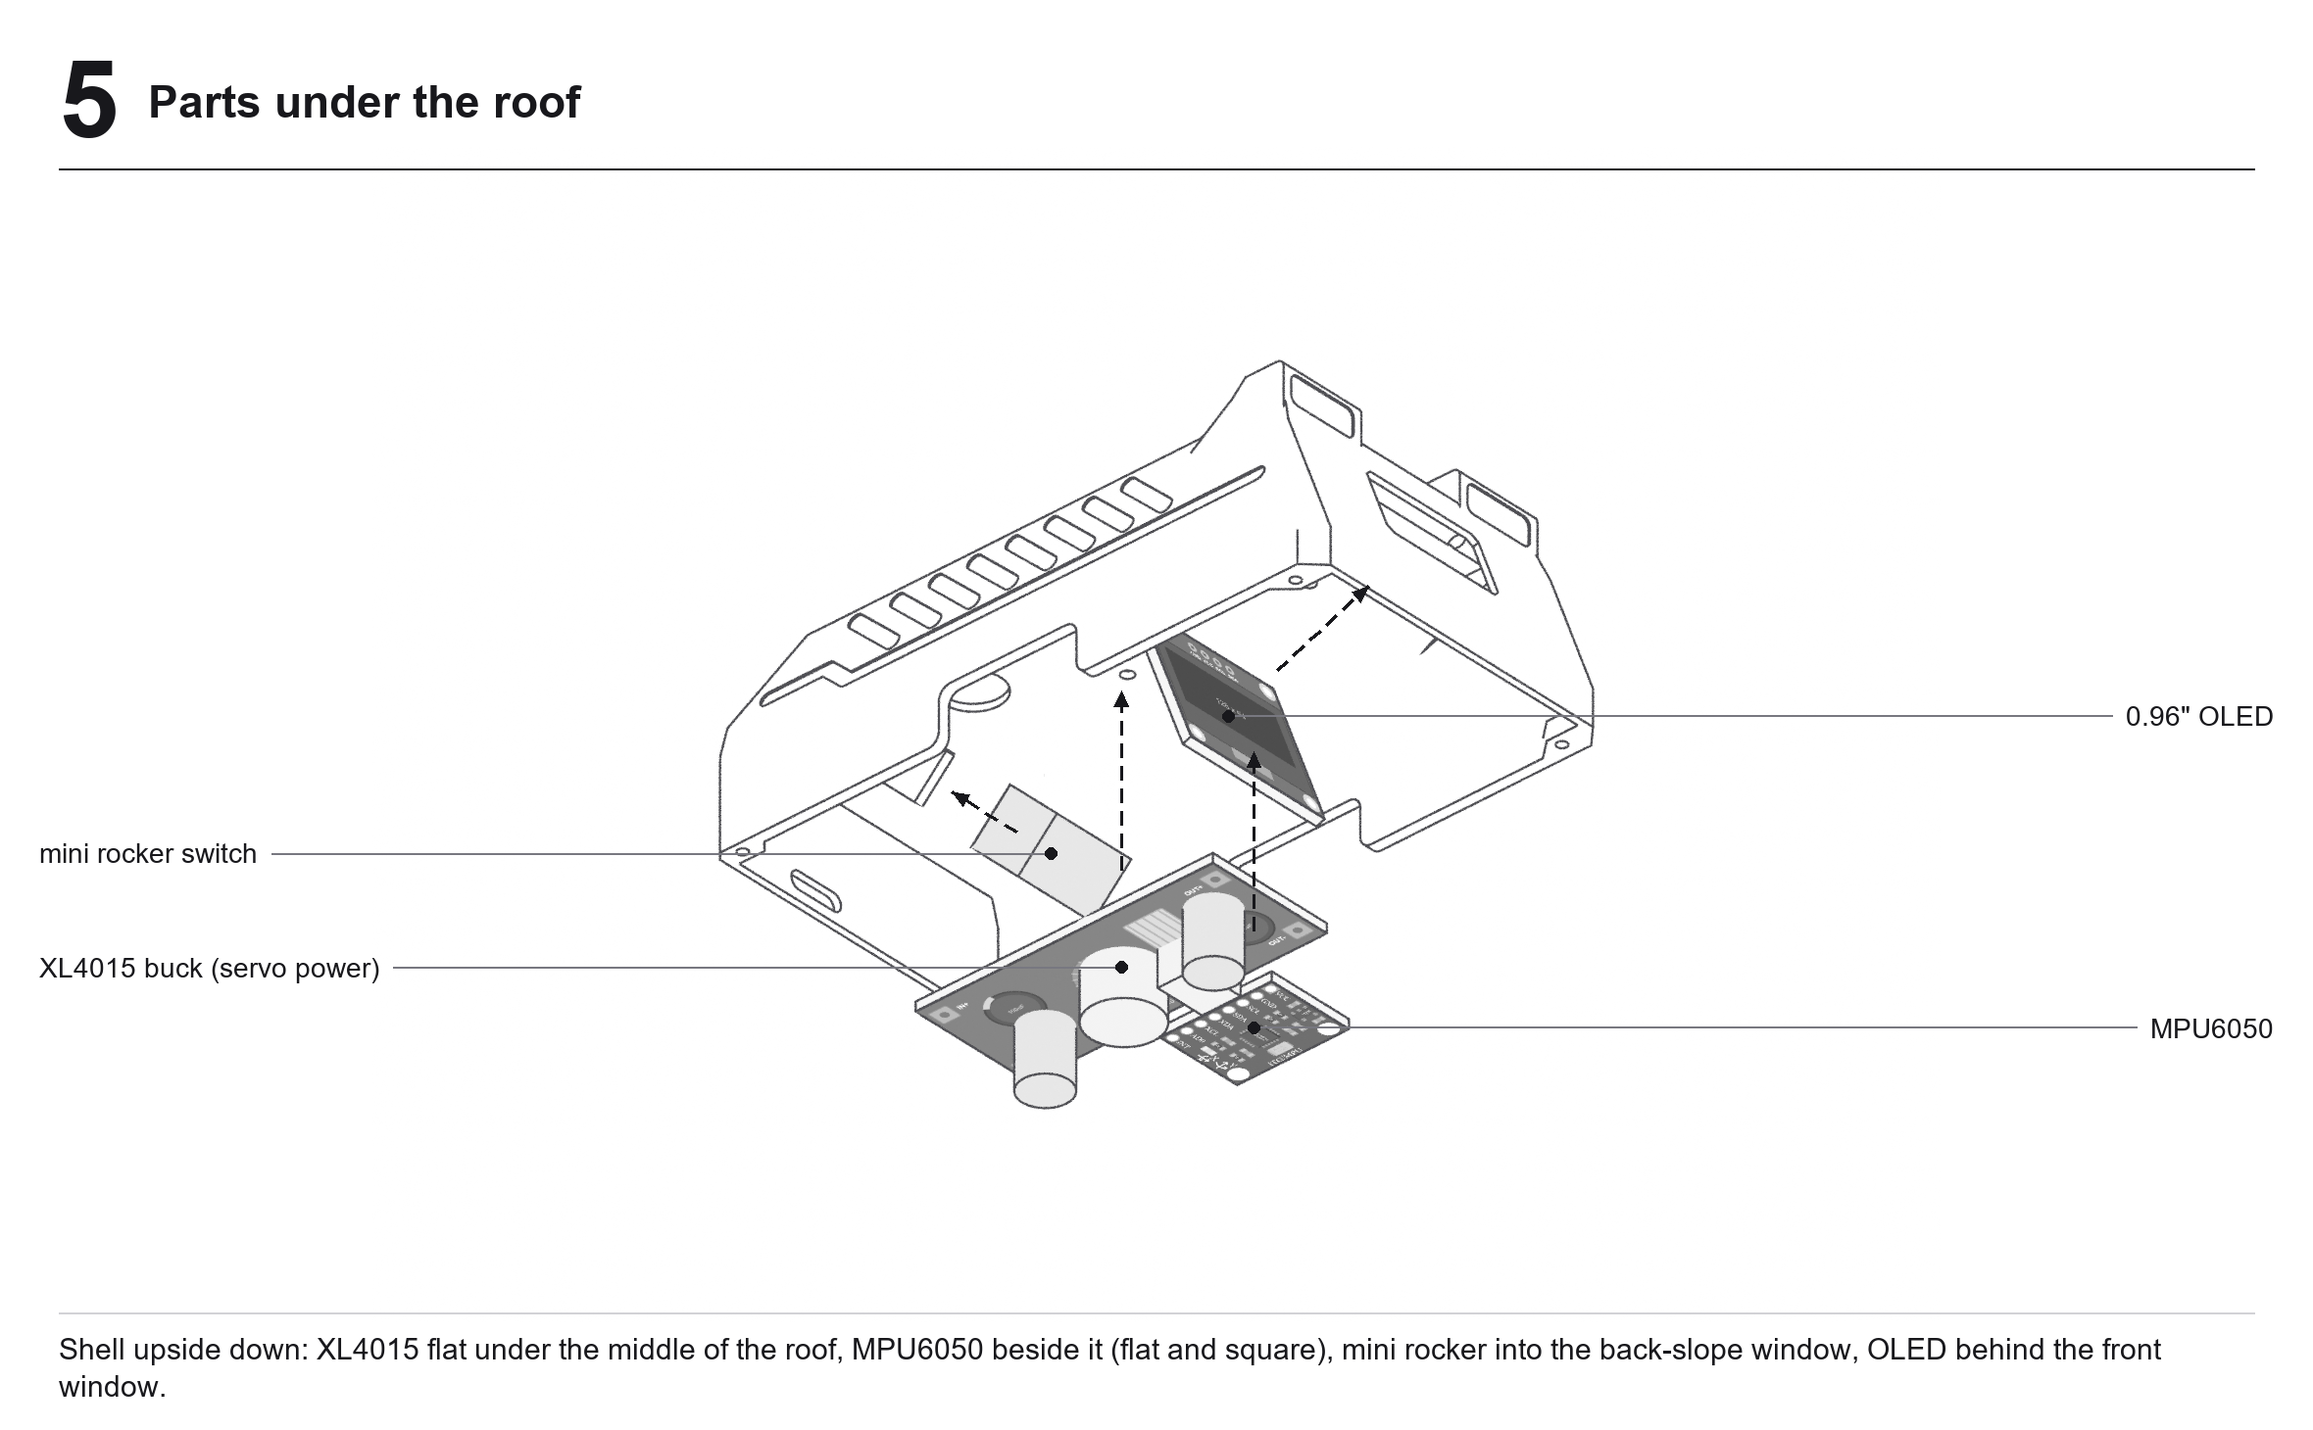
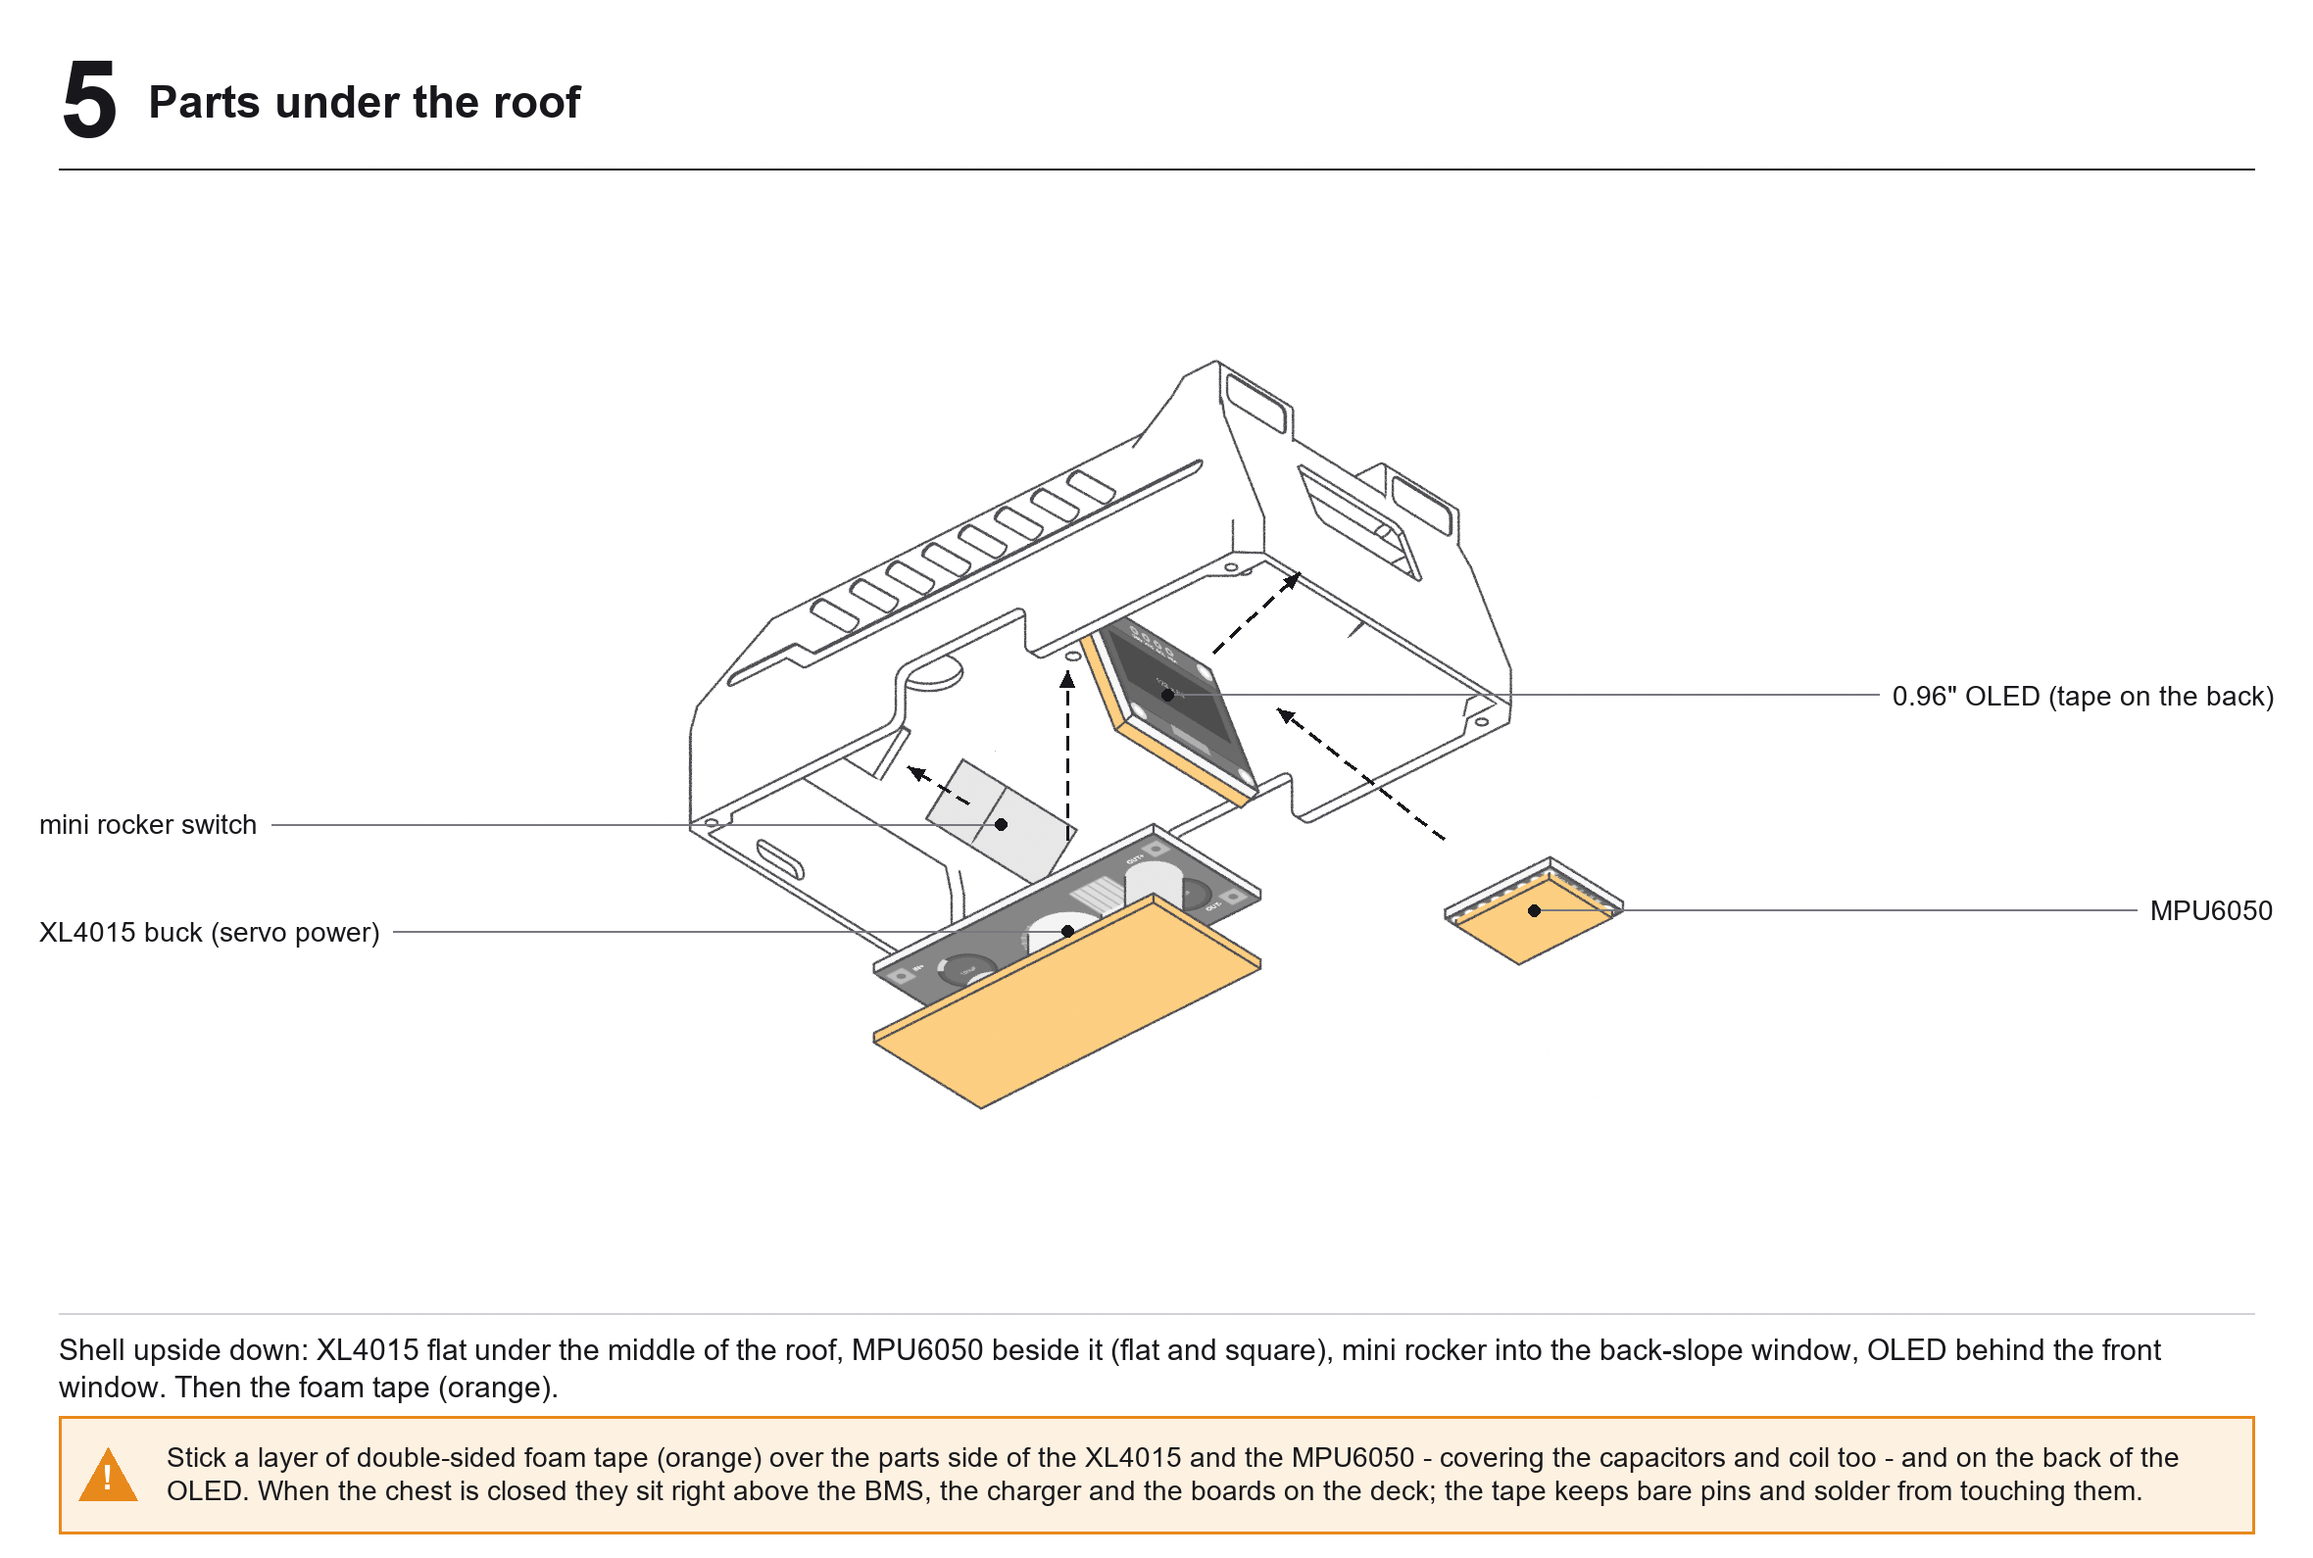
Handbook: foam tape over the XL4015, MPU6050 and OLED so nothing bare touches the deck boards (step 5 drawing + note)

diff --git a/HANDBOOK.html b/HANDBOOK.html
@@ -362,6 +362,11 @@ self-tapping screws: the thread is cut into plastic and strips if forced.</p>
 <li><strong>Chest, under the roof:</strong> the XL4015 flat in the middle, the MPU6050 beside it (mount it flat and square – it is
   the robot's sense of level), the mini rocker switch in the window of the back slope, the OLED behind the window of
   the front face. The round hole in the roof behind the neck is the cable way to the head.</li>
+<li><strong>Insulate the roof parts:</strong> put a layer of double-sided foam tape over the parts side of the XL4015 (over the
+  capacitors and the coil too, so nothing sticks out past it) and of the MPU6050, and on the back of the OLED – the
+  orange pads in step 5. When the chest is closed these sit right above the BMS, the charger and the boards on the
+  deck; the tape stops bare pins and solder joints from touching them and shorting. (It also holds the MPU6050 still,
+  which helps its readings.)</li>
 <li><strong>Head:</strong> the head is a front body (face, side walls, floor) closed by an L-shaped back cover (back + roof).
   The display sits landscape in the face; the camera looks out of the forehead hole with the ToF sensor on its
   left and the mic on its right. The ESP32-S3 board stands upright right behind the display, its two USB-C ports

diff --git a/docs/tools/manual_pages.py b/docs/tools/manual_pages.py
@@ -20,7 +20,7 @@ STEPS = {
     "2": ("Hip servos into the body", "Four MG90S servos drop into the corner pockets of the middle block, shafts up. Route the cables to the centre."),
     "3": ("Battery and bottom cover", "The 2S 1000 mAh LiPo goes into the bay under the deck, leads up through the deck. Clip the bottom cover over it."),
     "4": ("Power and servo boards on the deck", "Right side: the USB-C charger at the back (its port in the slot of the back wall), the HW-391 BMS in front of it. Left side: the PCA9685 at the back, the MP1584 5 V buck in front of it."),
-    "5": ("Parts under the roof", "Shell upside down: XL4015 flat under the middle of the roof, MPU6050 beside it (flat and square), mini rocker into the back-slope window, OLED behind the front window."),
+    "5": ("Parts under the roof", "Shell upside down: XL4015 flat under the middle of the roof, MPU6050 beside it (flat and square), mini rocker into the back-slope window, OLED behind the front window. Then the foam tape (orange)."),
     "6": ("Close the chest", "Lower the top shell (with the step 5 parts) onto the body. The charger's USB-C must line up with the slot in the back wall."),
     "7": ("Attach the legs", "Press each leg onto its hip-servo horn. Wait for calibration before tightening the horn screws."),
     "8": ("Build the neck", "Pan servo into the neck base, then the pan bracket, the tilt servo and the tilt plate the head mounts on."),
@@ -28,6 +28,14 @@ STEPS = {
     "10": ("Board, sound, back cover", "ESP32-S3 board upright behind the display, USB-C ports down through the floor slots. Speaker in the left-wall opening, amp in the right-wall pocket, touch pad under the crown. Then the back cover."),
     "11": ("Done", "Head onto the tilt plate, cables through the hole behind the neck. Switch on, join the Oreo WiFi, open /servomap then /calibrate."),
 }
+
+# Extra warnings under a page's note, drawn in a band with a warning sign.
+WARN = {
+    "5": "Stick a layer of double-sided foam tape (orange) over the parts side of the XL4015 and the MPU6050 - covering "
+         "the capacitors and coil too - and on the back of the OLED. When the chest is closed they sit right above the "
+         "BMS, the charger and the boards on the deck; the tape keeps bare pins and solder from touching them.",
+}
+ORANGE = (232, 137, 28)
 
 
 def font(size, bold=False):
@@ -71,7 +79,8 @@ def page(step):
     meta = json.load(open(os.path.join(IMG, "step_%s.json" % step)))
     W, H = src.size
     M = 380  # side margins for the callouts
-    P = Image.new("RGB", (W + 2 * M, H + 260), "white")
+    warn = WARN.get(step)
+    P = Image.new("RGB", (W + 2 * M, H + 260 + (130 if warn else 0)), "white")
     P.paste(src, (M, 150))
     d = ImageDraw.Draw(P)
     title, note = STEPS[step]
@@ -110,10 +119,18 @@ def page(step):
             d.ellipse([x - 6, y - 6, x + 6, y + 6], fill=INK)
     # the note
     nf = font(30)
-    y = P.height - 100
+    y = P.height - 100 - (130 if warn else 0)
     d.line([(60, y - 20), (P.width - 60, y - 20)], fill=(210, 210, 214), width=2)
     for i, line in enumerate(wrap(note, nf, P.width - 120, d)[:2]):
         d.text((60, y + i * 38), line, font=nf, fill=INK)
+    if warn:  # the warning band: orange bar, a warning triangle, up to three lines
+        top = P.height - 145
+        d.rectangle([60, top, P.width - 60, top + 120], fill=(253, 241, 225), outline=ORANGE, width=3)
+        d.polygon([(110, top + 32), (80, top + 86), (140, top + 86)], fill=ORANGE)
+        d.text((104, top + 44), "!", font=font(34, True), fill="white")
+        wf = font(28)
+        for i, line in enumerate(wrap(warn, wf, P.width - 280, d)[:4]):
+            d.text((170, top + 26 + i * 34), line, font=wf, fill=INK)
     P.save(os.path.join(IMG, "page_%s.png" % step), optimize=True)
 
 

diff --git a/docs/tools/manual_render.py b/docs/tools/manual_render.py
@@ -67,6 +67,29 @@ def mat(tone):
     return m
 
 
+def tape_mat():
+    """Double-sided foam tape: the one coloured thing in the drawings (light orange)."""
+    if "tape" in bpy.data.materials:
+        return bpy.data.materials["tape"]
+    m = bpy.data.materials.new("tape")
+    m.use_nodes = True
+    nt = m.node_tree
+    for n in list(nt.nodes):
+        nt.nodes.remove(n)
+    em = nt.nodes.new("ShaderNodeEmission")
+    em.inputs[0].default_value = (0.98, 0.62, 0.22, 1)
+    out = nt.nodes.new("ShaderNodeOutputMaterial")
+    nt.links.new(em.outputs[0], out.inputs[0])
+    return m
+
+
+def tape(name, c, size, parent):
+    """A pad of double-sided foam tape (mm), stuck to a board."""
+    o = cube(name, c, size, 1.0, parent)
+    o.data.materials[0] = tape_mat()
+    return o
+
+
 def load(name, tone=1.0):
     path = os.path.join(PARTS, name + ".stl")
     if not os.path.exists(path):  # the servos (reference models, not printed) are in their own folder
@@ -209,7 +232,7 @@ def electronics_chest():
     return e
 
 
-def electronics_roof():
+def electronics_roof(with_tape=False):
     """Under the roof: XL4015 in the middle, MPU6050 beside it (both hang under the roof, parts facing down);
     the mini rocker in the back-slope window, the OLED behind the front-face window."""
     e = {}
@@ -228,6 +251,16 @@ def electronics_roof():
     e["oled"] = cube("oled", (45.6, 0, 74.4), (27, 27, 1.6), GREY["pcb"])
     decal("oled_art", "oled", (45.6, 0, 75.25), (0, 1, 0), (-1, 0, 0), 27, 27, e["oled"])
     tilt(e["oled"], 69.7)
+    if with_tape:  # a layer of double-sided foam tape over the side of each that faces down into the chest,
+        # so nothing bare touches the BMS / charger / boards on the deck when the chest is closed
+        tape("xl4015_tape", (-1.5, -7, 71.0), (54, 23, 1.6), e["xl4015"])        # over the caps and coil: nothing sticks out
+        tape("imu_tape", (2, 16, 81.6), (18, 13.5, 1.2), e["imu"])
+        bpy.context.view_layer.update()
+        o = e["oled"]  # its back (away from the screen), in the board's own frame
+        t = tape("oled_tape", (45.6, 0, 74.4), (27, 27, 2.0), None)
+        t.parent = o
+        t.matrix_parent_inverse.identity()
+        t.location = (0, 0, -0.0018)
     return e
 
 
@@ -399,11 +432,11 @@ def main():
     if want("5"):
         reset()
         ts = load("top_shell")
-        er = electronics_roof()
+        er = electronics_roof(with_tape=True)
         keep = [ts] + list(er.values())
         render("5", keep, {er["xl4015"]: "XL4015 buck (servo power)", er["imu"]: "MPU6050", er["switch"]: "mini rocker switch",
-                           er["oled"]: "0.96\" OLED"},
-               [(er["xl4015"], (0, 0, -60)), (er["imu"], (0, 0, -60)), (er["switch"], (24, 0, -24)), (er["oled"], (-34, 0, -13))],
+                           er["oled"]: "0.96\" OLED (tape on the back)"},
+               [(er["xl4015"], (0, 0, -60)), (er["imu"], (30, 40, -40)), (er["switch"], (24, 0, -24)), (er["oled"], (-34, 0, -13))],
                view=(0.9, -1, -0.9))
     # 6 - the top shell onto the body
     if want("6"):

diff --git a/HANDBOOK.md b/HANDBOOK.md
@@ -119,6 +119,11 @@ Where things sit (left/right as the robot sees it, its face is the front):
 * **Chest, under the roof:** the XL4015 flat in the middle, the MPU6050 beside it (mount it flat and square – it is
   the robot's sense of level), the mini rocker switch in the window of the back slope, the OLED behind the window of
   the front face. The round hole in the roof behind the neck is the cable way to the head.
+* **Insulate the roof parts:** put a layer of double-sided foam tape over the parts side of the XL4015 (over the
+  capacitors and the coil too, so nothing sticks out past it) and of the MPU6050, and on the back of the OLED – the
+  orange pads in step 5. When the chest is closed these sit right above the BMS, the charger and the boards on the
+  deck; the tape stops bare pins and solder joints from touching them and shorting. (It also holds the MPU6050 still,
+  which helps its readings.)
 * **Head:** the head is a front body (face, side walls, floor) closed by an L-shaped back cover (back + roof).
   The display sits landscape in the face; the camera looks out of the forehead hole with the ToF sensor on its
   left and the mic on its right. The ESP32-S3 board stands upright right behind the display, its two USB-C ports
